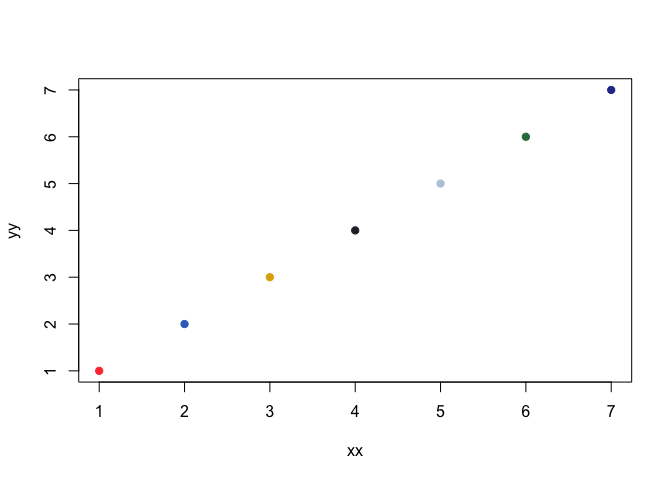
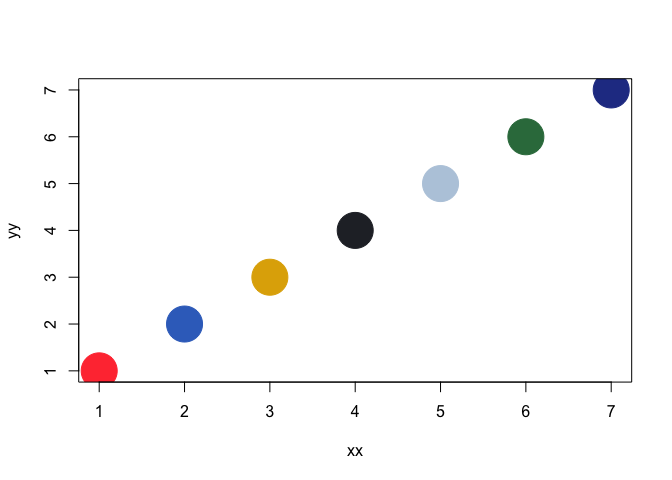
Update README

diff --git a/README.md b/README.md
@@ -8,6 +8,8 @@
 
 ## Basic Use
 
+### Base R
+
 ``` r
 library(birdcolors)
 library(ggplot2)
@@ -18,7 +20,7 @@ xx <- (1:7)
 yy <- (1:7)
 zz <- (1:7)
 
-plot(xx,yy,col=outp[zz],pch=19)
+plot(xx,yy,col=outp[zz],pch=19,cex=5)
 ```
 
 ![](README_files/figure-markdown_github/unnamed-chunk-2-1.png)
@@ -37,33 +39,4 @@ ggplot() +
   theme_classic()
 ```
 
-![](README_files/figure-markdown_github/unnamed-chunk-2-2.png)
-
-This is an R Markdown document. Markdown is a simple formatting syntax
-for authoring HTML, PDF, and MS Word documents. For more details on
-using R Markdown see <http://rmarkdown.rstudio.com>.
-
-When you click the **Knit** button a document will be generated that
-includes both content as well as the output of any embedded R code
-chunks within the document. You can embed an R code chunk like this:
-
-``` r
-summary(cars)
-```
-
-    ##      speed           dist       
-    ##  Min.   : 4.0   Min.   :  2.00  
-    ##  1st Qu.:12.0   1st Qu.: 26.00  
-    ##  Median :15.0   Median : 36.00  
-    ##  Mean   :15.4   Mean   : 42.98  
-    ##  3rd Qu.:19.0   3rd Qu.: 56.00  
-    ##  Max.   :25.0   Max.   :120.00
-
-## Including Plots
-
-You can also embed plots, for example:
-
-![](README_files/figure-markdown_github/pressure-1.png)
-
-Note that the `echo = FALSE` parameter was added to the code chunk to
-prevent printing of the R code that generated the plot.
+![](README_files/figure-markdown_github/unnamed-chunk-3-1.png)
